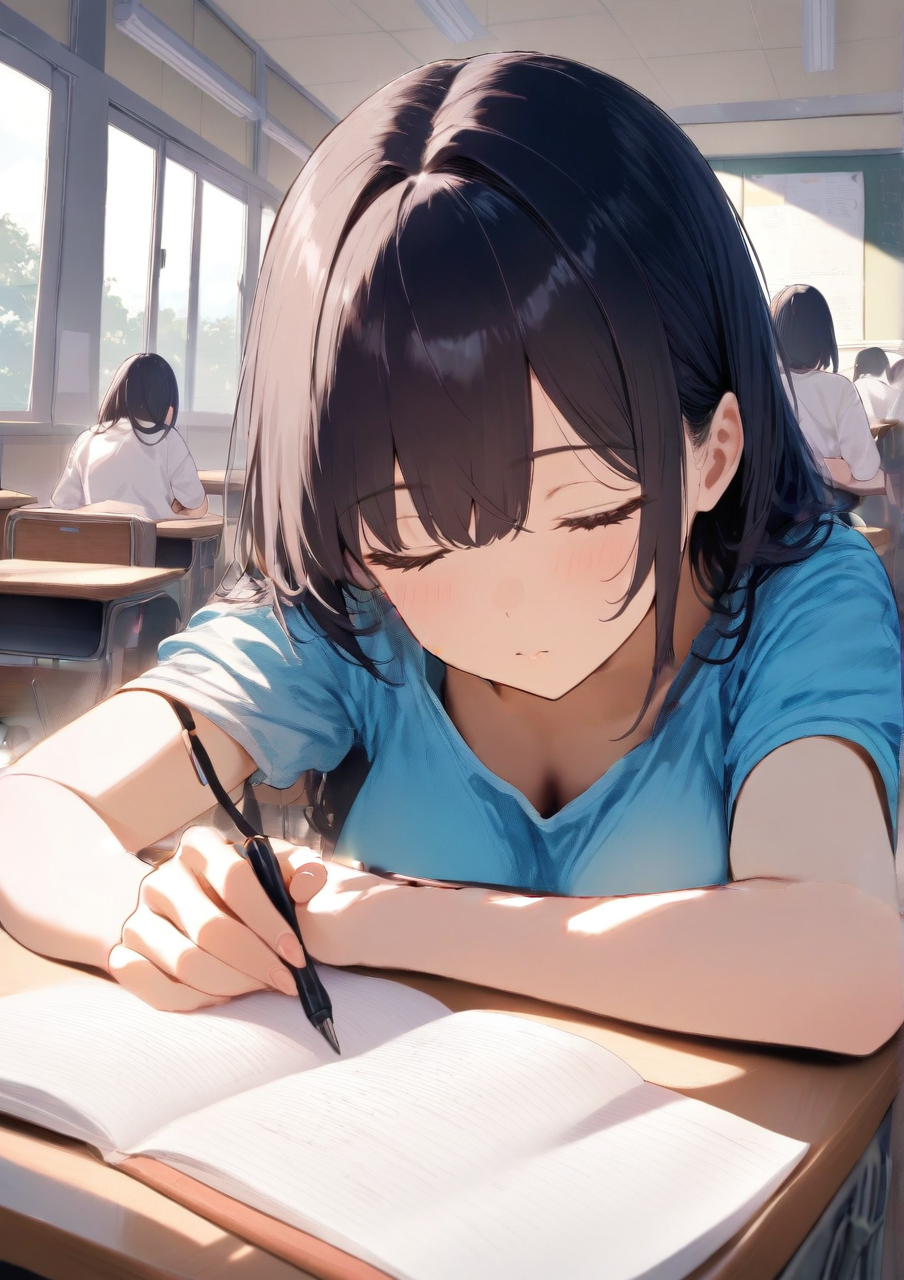
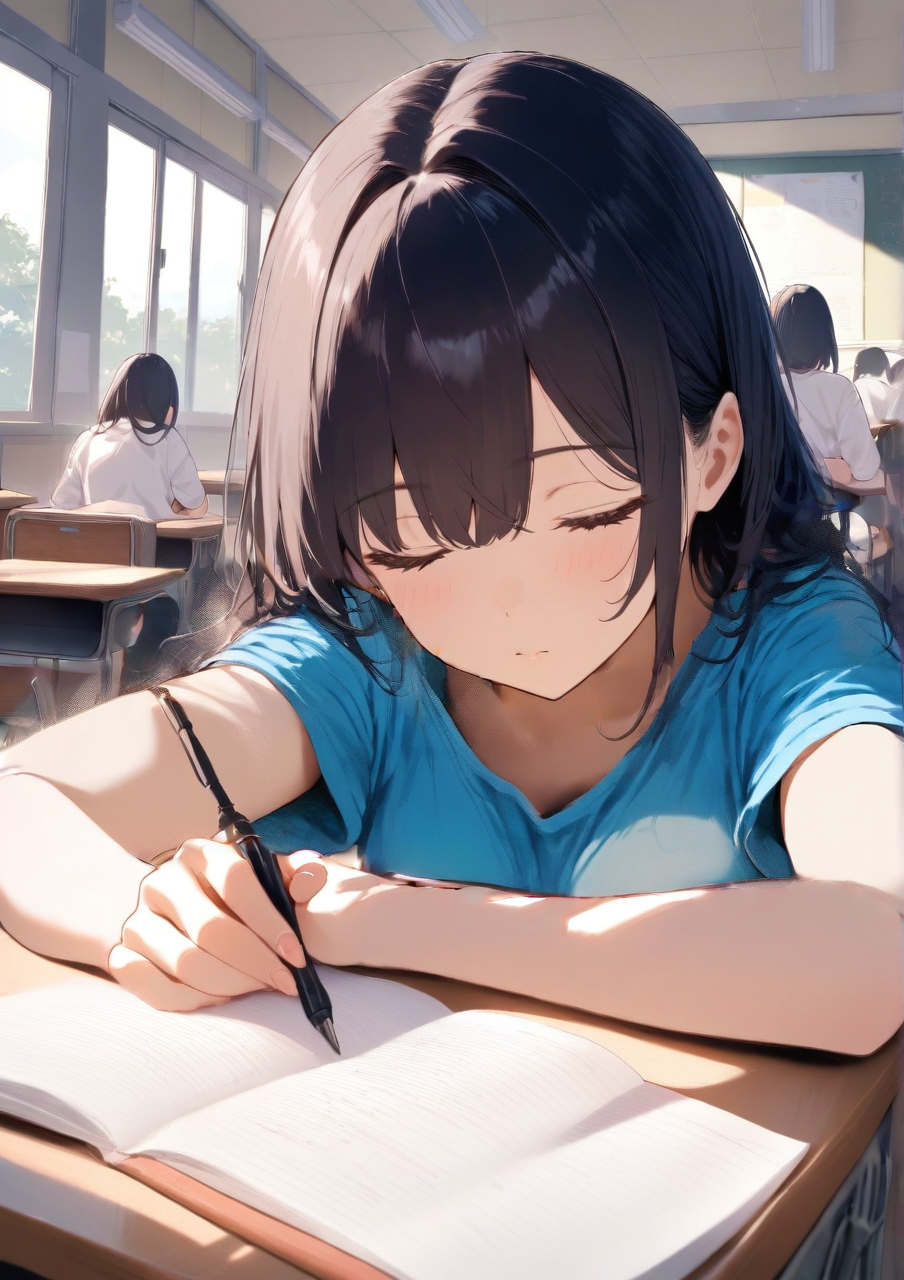
add cfg big parameter

Changed region(s): [[0.0, 0.375, 1.0, 0.7188]]

diff --git a/src/LanPaint/nodes.py b/src/LanPaint/nodes.py
@@ -21,6 +21,23 @@ def reshape_mask(input_mask, output_shape):
     return mask
 def prepare_mask(noise_mask, shape, device):
     return reshape_mask(noise_mask, shape).to(device)
+def sampling_function_LanPaint(model, x, timestep, uncond, cond, cond_scale, cond_scale_BIG, model_options={}, seed=None):
+    if math.isclose(cond_scale, 1.0) and model_options.get("disable_cfg1_optimization", False) == False:
+        uncond_ = None
+    else:
+        uncond_ = uncond
+
+    conds = [cond, uncond_]
+    out = calc_cond_batch(model, conds, x, timestep, model_options)
+
+    for fn in model_options.get("sampler_pre_cfg_function", []):
+        args = {"conds":conds, "conds_out": out, "cond_scale": cond_scale, "timestep": timestep,
+                "input": x, "sigma": timestep, "model": model, "model_options": model_options}
+        out  = fn(args)
+
+    return cfg_function(model, out[0], out[1], cond_scale, x, timestep, model_options=model_options, cond=cond, uncond=uncond_), cfg_function(model, out[0], out[1], cond_scale_BIG, x, timestep, model_options=model_options, cond=cond, uncond=uncond_)
+
+
 class CFGGuider_LanPaint:
     def outer_sample(self, noise, latent_image, sampler, sigmas, denoise_mask=None, callback=None, disable_pbar=False, seed=None):
         print("CFGGuider outer_sample")
@@ -45,7 +62,11 @@ class CFGGuider_LanPaint:
         del self.inner_model
         del self.loaded_models
         return output
+    def predict_noise(self, x, timestep, model_options={}, seed=None):
+        return sampling_function_LanPaint(self.inner_model, x, timestep, self.conds.get("negative", None), self.conds.get("positive", None), self.cfg, self.cfg_BIG, model_options=model_options, seed=seed)
+
 CFGGuider.outer_sample = CFGGuider_LanPaint.outer_sample
+CFGGuider.predict_noise = CFGGuider_LanPaint.predict_noise
 
 class KSamplerX0Inpaint:
     def __init__(self, model, sigmas):
@@ -99,10 +120,10 @@ class KSamplerX0Inpaint:
                 x_t, args = self.langevin_dynamics(x_t, score_func , latent_mask, step_size_i , current_times, sigma_x = self.sigma_x(abt), sigma_y = self.sigma_y(abt), args = args)  
             x = x_t #* ( 1+sigma**2 )**0.5
             # out is x_0
-            out = self.inner_model(x, sigma, model_options=model_options, seed=seed)
+            out, _ = self.inner_model(x, sigma, model_options=model_options, seed=seed)
             out = out * denoise_mask + self.latent_image * latent_mask
         else:
-            out = self.inner_model(x, sigma, model_options=model_options, seed=seed)
+            out, _ = self.inner_model(x, sigma, model_options=model_options, seed=seed)
         return out
     def mid_times(self, current_times, step_size):
         sigma, abt = current_times
@@ -121,11 +142,12 @@ class KSamplerX0Inpaint:
         lamb = self.chara_lamb
         beta = self.chara_beta * (1-abt)**0.5
 
-        x_0 = self.inner_model(x_t, sigma, model_options=model_options, seed=seed)
+        x_0, x_0_BIG = self.inner_model(x_t, sigma, model_options=model_options, seed=seed)
         e_t = x_t / ((1 - abt) ** 0.5 * (1 + sigma**2) ** 0.5 )- (abt ** 0.5  / (1 - abt) ** 0.5) * x_0
+        e_t_BIG = x_t / ((1 - abt) ** 0.5 * (1 + sigma**2) ** 0.5 )- (abt ** 0.5  / (1 - abt) ** 0.5) * x_0_BIG
         
         score_x = -e_t
-        score_y = - (1 + lamb) * ( x_t/ ((1 + sigma**2) ** 0.5 *(1 - abt)**0.5) - abt**0.5 /(1 - abt)**0.5 * y )  + lamb *  e_t
+        score_y = - (1 + lamb) * ( x_t/ ((1 + sigma**2) ** 0.5 *(1 - abt)**0.5) - abt**0.5 /(1 - abt)**0.5 * y )  + lamb *  e_t_BIG
         return score_x * (1 - mask) + score_y * mask
     def sigma_x(self, abt):
         # the time scale for the x_t update
@@ -275,6 +297,7 @@ class KSAMPLER(comfy.samplers.KSAMPLER):
             model_k.noise = torch.randn(noise.shape, generator=generator, device="cpu").to(noise.dtype).to(noise.device)
         else:
             model_k.noise = noise
+        model_wrap.cfg_BIG = model_wrap.model_patcher.LanPaint_cfg_BIG
         model_k.step_size = model_wrap.model_patcher.LanPaint_StepSize
         model_k.chara_lamb = model_wrap.model_patcher.LanPaint_Lambda
         model_k.chara_beta = model_wrap.model_patcher.LanPaint_Beta
@@ -351,6 +374,7 @@ class LanPaint_KSampler():
         model.LanPaint_StepTimeSchedule = "shrink"
         model.LanPaint_StartSigma = 20.
         model.LanPaint_EndSigma = 1.
+        model.LanPaint_cfg_BIG = cfg
         return common_ksampler(model, seed, steps, cfg, sampler_name, scheduler, positive, negative, latent_image, denoise=denoise)
 class LanPaint_KSamplerAdvanced:
     @classmethod
@@ -381,7 +405,8 @@ class LanPaint_KSamplerAdvanced:
                 "LanPaint_StepTimeSchedule": (["shrink", "dual_shrink", "follow_sampler"], {"default": "shrink", "tooltip": "The step size schedule for the first step of Langevin dynamics during diffusion sampling, shrink: step size = step size * (1 - alpha bar) ** 0.5; Dual_shrink: step size = step size * (1 - alpha bar) ** 0.5 *  alpha bar ** 0.5; Follow_sampler: scale with the sampler step size."}),
                 "LanPaint_StartSigma": ("FLOAT", {"default": 20., "min": 0.0001, "max": 20.0, "step": 0.1, "round": 0.1, "tooltip": "Start 'thinking' with Langevin dynamics at this sigma value."}),
                 "LanPaint_EndSigma": ("FLOAT", {"default": 1., "min": 0.000, "max": 20.0, "step": 0.1, "round": 0.1, "tooltip": "Stop 'thinking' with Langevin dynamics at this sigma value."}),
-                "LanPaint_Info": ("STRING", {"default": "LanPaint KSampler Advanced. For difficult tasks, first try increasing steps, LanPaint_NumSteps. Then try increase LanPaint_Lambda or LanPaint_StepSize. Decrease LanPaint_Friction if you want to obtain good results with fewer turns of thinking (LanPaint_NumSteps) at the risk of irregular behavior. Increase LanPaint_Tamed or LanPaint_Alpha can suppress irregular behavior. For more information, visit https://github.com/scraed/LanPaint", "multiline": True}),
+                "LanPaint_cfg_BIG": ("FLOAT", {"default": 5., "min": 0.000, "max": 20.0, "step": 0.1, "round": 0.1, "tooltip": "The CFG scale used in the bidirectional guidance (for the known region only). Higher value results in more closely matching the known region."}),
+                "LanPaint_Info": ("STRING", {"default": "LanPaint KSampler Advanced. For difficult tasks, first try increasing steps, LanPaint_NumSteps, and LanPaint_cfg_BIG. Then try increase LanPaint_Lambda or LanPaint_StepSize. Decrease LanPaint_Friction if you want to obtain good results with fewer turns of thinking (LanPaint_NumSteps) at the risk of irregular behavior. Increase LanPaint_Tamed or LanPaint_Alpha can suppress irregular behavior. For more information, visit https://github.com/scraed/LanPaint", "multiline": True}),
                      },
                 }
 
@@ -390,7 +415,7 @@ class LanPaint_KSamplerAdvanced:
 
     CATEGORY = "sampling"
 
-    def sample(self, model, add_noise, noise_seed, steps, cfg, sampler_name, scheduler, positive, negative, latent_image, start_at_step, end_at_step, return_with_leftover_noise, denoise=1.0, LanPaint_StepSize=0.05, LanPaint_Lambda=5, LanPaint_Beta=1, LanPaint_NumSteps=5, LanPaint_Friction=5, LanPaint_Alpha=1, LanPaint_Tamed=0., LanPaint_BetaScale="fixed", LanPaint_StepSizeSchedule = "const", LanPaint_StepTimeSchedule = "shrink",  LanPaint_StartSigma=20, LanPaint_EndSigma=0, LanPaint_Info=""):
+    def sample(self, model, add_noise, noise_seed, steps, cfg, sampler_name, scheduler, positive, negative, latent_image, start_at_step, end_at_step, return_with_leftover_noise, denoise=1.0, LanPaint_StepSize=0.05, LanPaint_Lambda=5, LanPaint_Beta=1, LanPaint_NumSteps=5, LanPaint_Friction=5, LanPaint_Alpha=1, LanPaint_Tamed=0., LanPaint_BetaScale="fixed", LanPaint_StepSizeSchedule = "const", LanPaint_StepTimeSchedule = "shrink",  LanPaint_StartSigma=20, LanPaint_EndSigma=0, LanPaint_cfg_BIG = 5., LanPaint_Info=""):
         force_full_denoise = True
         if return_with_leftover_noise == "enable":
             force_full_denoise = False
@@ -409,6 +434,7 @@ class LanPaint_KSamplerAdvanced:
         model.LanPaint_StepTimeSchedule = LanPaint_StepTimeSchedule
         model.LanPaint_StartSigma = LanPaint_StartSigma
         model.LanPaint_EndSigma = LanPaint_EndSigma
+        model.LanPaint_cfg_BIG = LanPaint_cfg_BIG
         return common_ksampler(model, noise_seed, steps, cfg, sampler_name, scheduler, positive, negative, latent_image, denoise=denoise, disable_noise=disable_noise, start_step=start_at_step, last_step=end_at_step, force_full_denoise=force_full_denoise)
 
 
